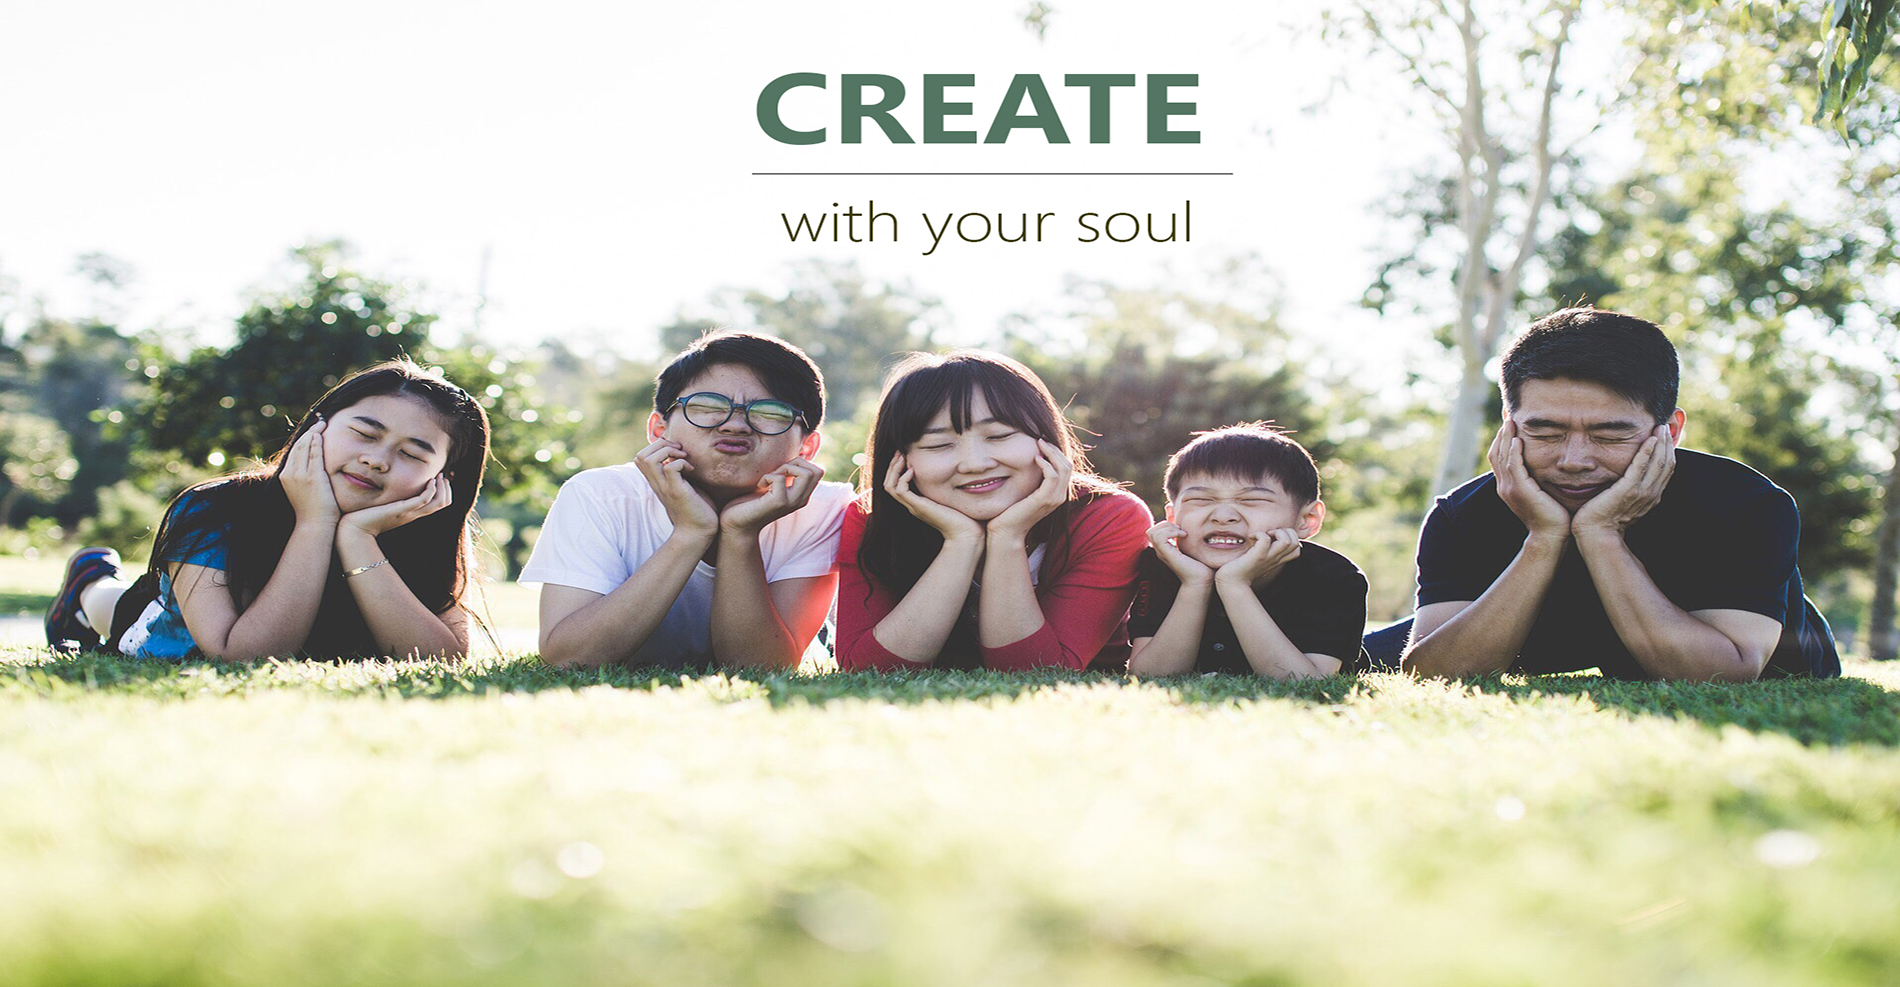
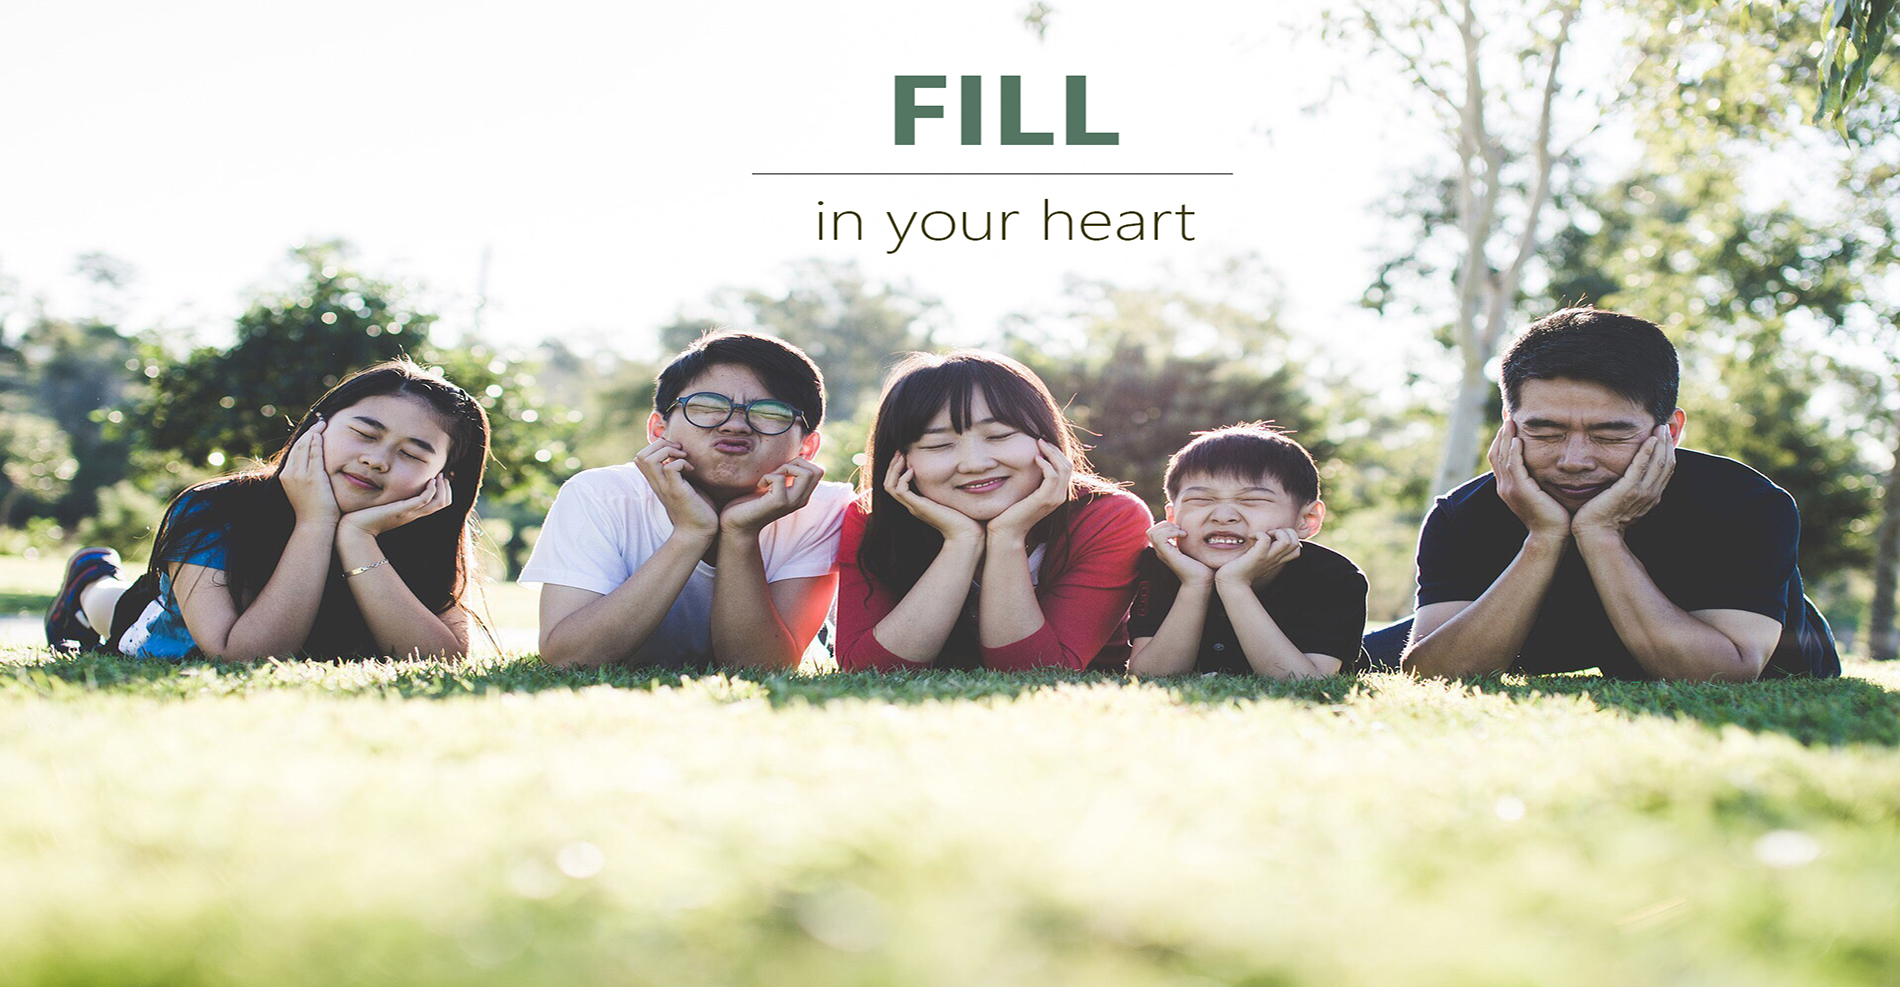
update picture and text

Changed region(s): [[0.3726, 0.0608, 0.6521, 0.152], [0.4037, 0.2128, 0.6521, 0.2432]]

diff --git a/index-vn.html b/index-vn.html
@@ -69,17 +69,17 @@
             <div class="wrapper">
     			<div class="owl-carousel">
     				<div class="item">
-                        <img src="themes/tvooil/assets/images/header-home-1a.jpg" alt="Fresh Meal Made Easy">
+                        <img src="themes/tvooil/assets/images/header-home-1a-vn.jpg" alt="Fresh Meal Made Easy">
     					<div class="container">
     					</div><!-- /.container -->
     				</div><!-- /.item -->
                     <div class="item">
-                        <img src="themes/tvooil/assets/images/header-home-2a.jpg" alt="Create with your soul">
+                        <img src="themes/tvooil/assets/images/header-home-2a-vn.jpg" alt="Create with your soul">
                         <div class="container">
                         </div><!-- /.container -->
                     </div><!-- /.item -->
                     <div class="item">
-                        <img src="themes/tvooil/assets/images/header-home-3a.jpg" alt="Great Taste Delivered">
+                        <img src="themes/tvooil/assets/images/header-home-3a-vn.jpg" alt="Great Taste Delivered">
                         <div class="container">
                         </div><!-- /.container -->
                     </div><!-- /.item -->
